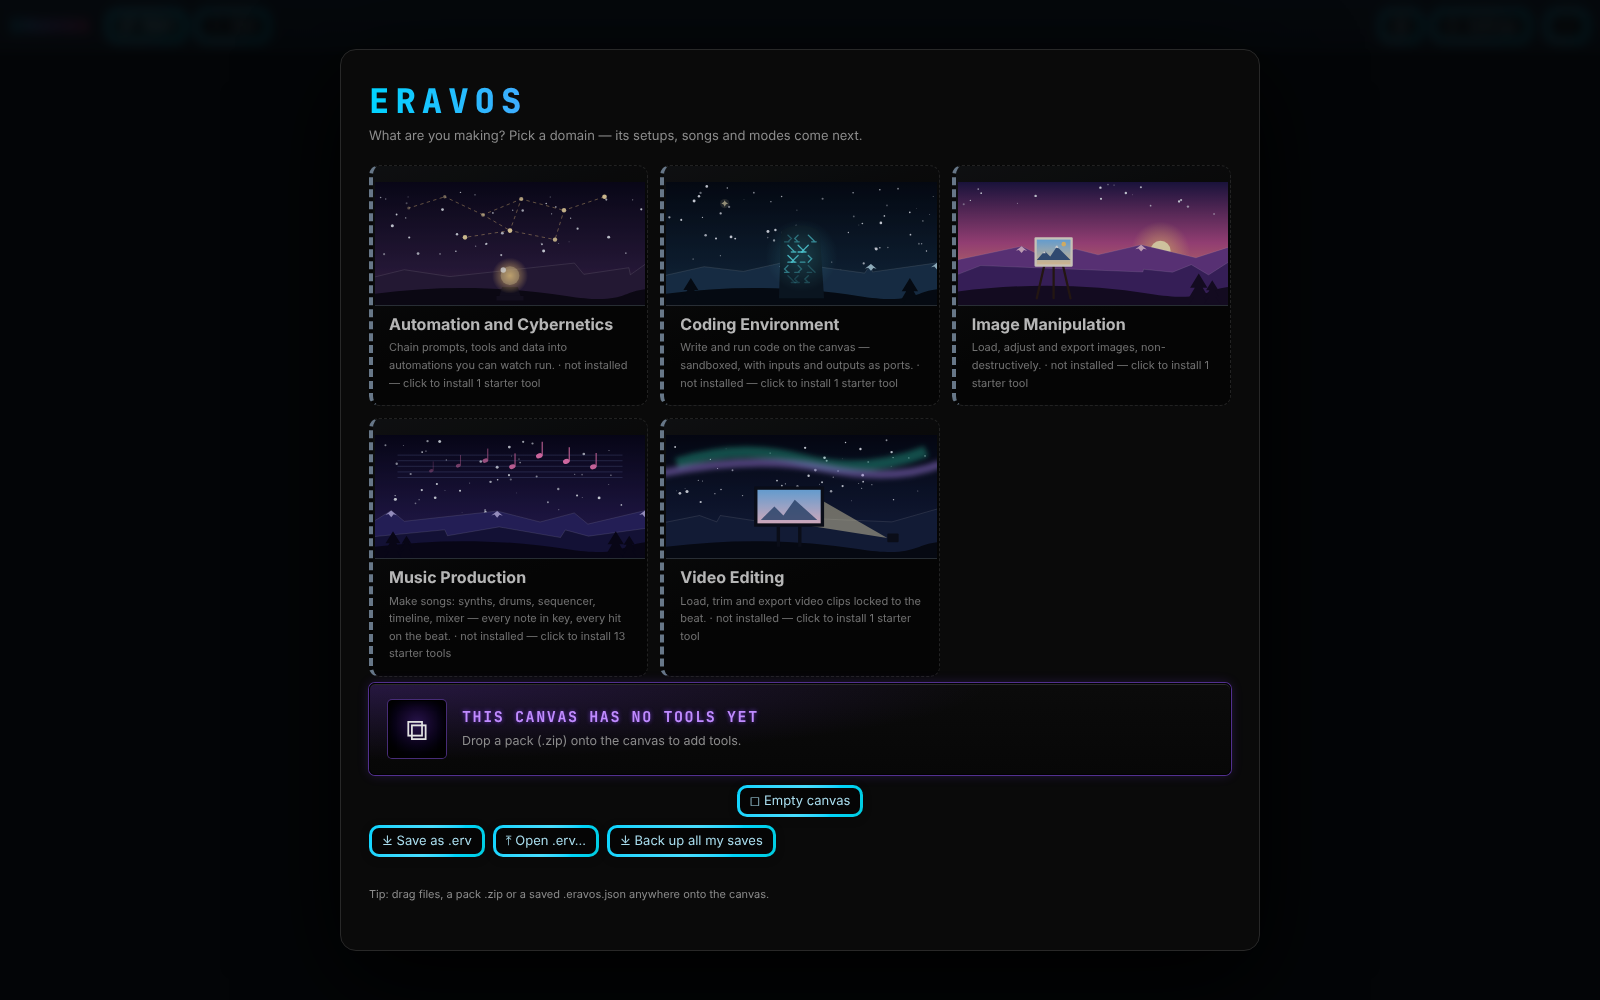
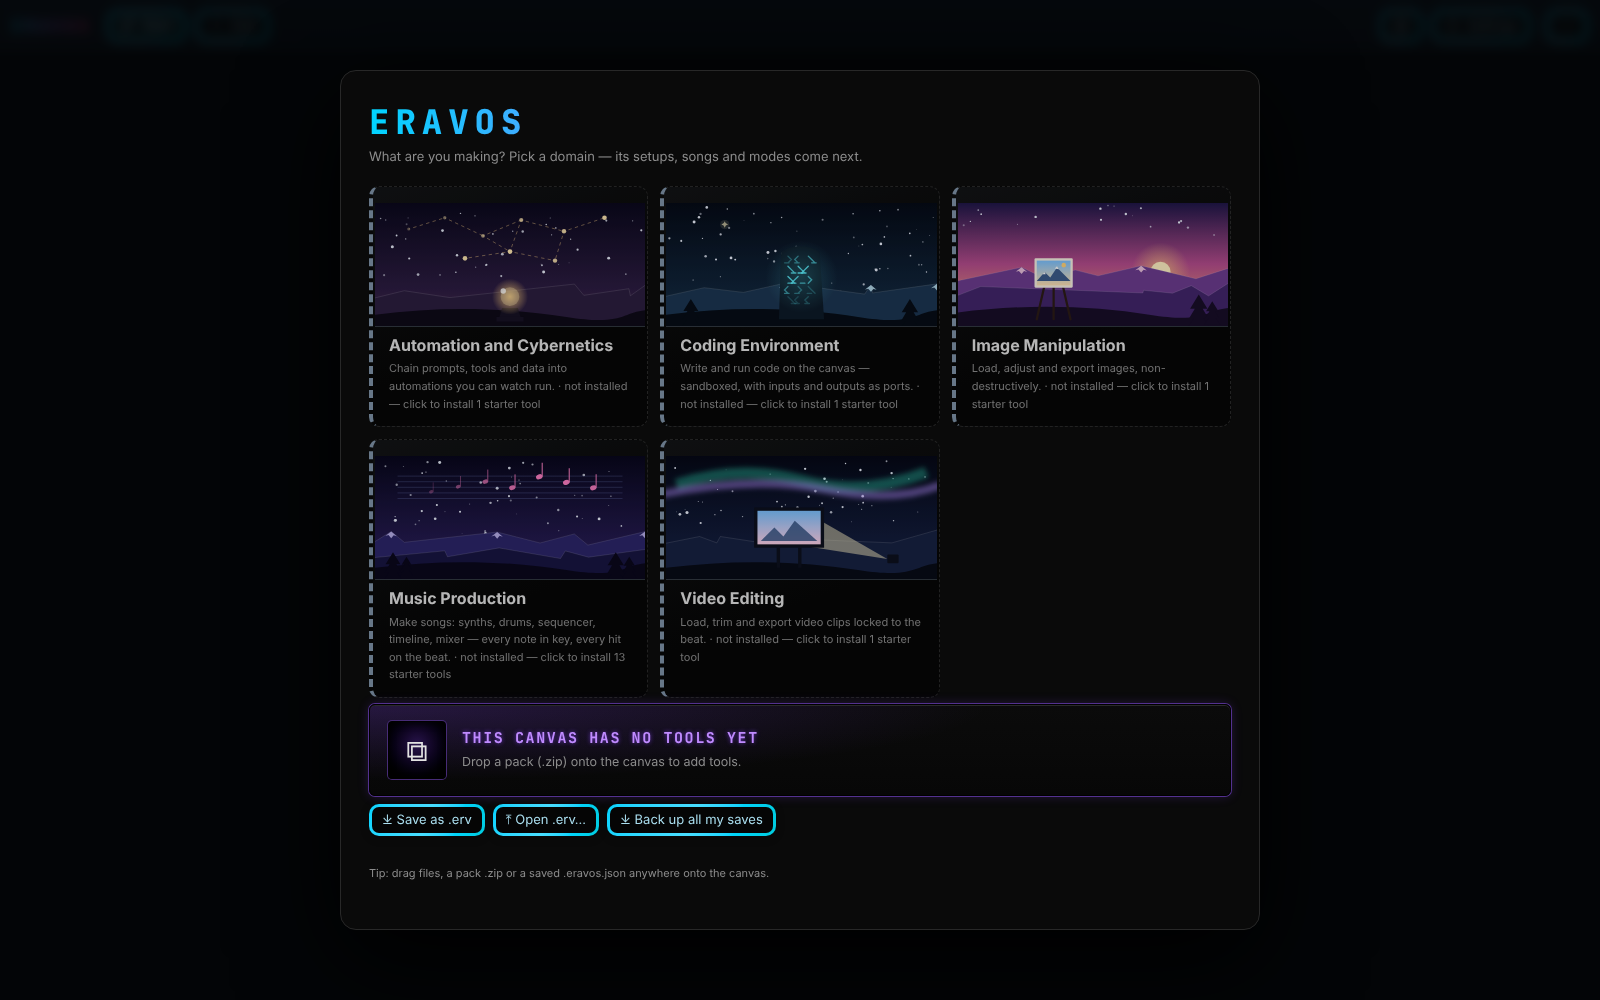
Start: each domain shows only its own setups; no Empty canvas button (3.225)
Claude-Session: https://claude.ai/code/session_01RhmGGeQo9BU3etbCG4u5m4

Changed region(s): [[0.2188, 0.155, 0.7812, 0.899], [0.2188, 0.062, 0.5312, 0.186]]

diff --git a/canvas/index.html b/canvas/index.html
@@ -155,6 +155,7 @@
     const start = async (id) => {
       S.activate(); close();
       // 3.124 Empty canvas = every tool starts blank (no preset); any other start brings tools with their presets
+      // (3.225: no "Empty canvas" button any more — his words, 2026-11-25: "also remove the button that says empty canvas"; Browse every tool starts this way)
       OrganismFactory.blankStart(!id);
       if (!id) toast('Empty canvas: every tool you add starts blank — no preset. Pick one from its presets any time.', '', 4000);
       if (id) {
@@ -165,7 +166,10 @@
     };
     // recipes belong to the modes their tools need; on an agnostic canvas none show until a mode is picked
     const activeDomains = new Set(X.active().map(id => (X.mode_(id) || {}).domain));
-    const visible = (r) => { const ms = X.recipeModes(r); return !ms.length || ms.some(m => X.isActive(m) || activeDomains.has((X.mode_(m) || {}).domain)); };
+    // 3.225 (his words, 2026-11-25: "these shouldn't show in other domains"): with a domain picked, only ITS setups and songs — not those of
+    // another domain that happens to be switched on; before a domain is picked, as before
+    const domainsOf = (r) => X.recipeModes(r).map(m => (X.mode_(m) || {}).domain || m);
+    const visible = (r) => { const ms = X.recipeModes(r); if (picked) return ms.length > 0 && domainsOf(r).includes(picked); return !ms.length || ms.some(m => X.isActive(m) || activeDomains.has((X.mode_(m) || {}).domain)); };
     const featured = Recipes.featured().filter(visible);
     // 3.81 a featured recipe may bring a picture (an SVG it ships as data); else its icon
     const heroPic = (r) => { if (typeof r.featured.art === 'string' && /^<svg[\s>]/.test(r.featured.art)) { const d = h('div', { class: 'big art' }); d.innerHTML = r.featured.art; return d; } return h('div', { class: 'big', text: r.featured.icon || r.icon || '✦' }); };
@@ -205,7 +209,6 @@
       ...(OrganismFactory.defined().length ? [] : [h('div', { class: 'hero-card', style: { cursor: 'default' } }, [h('div', { class: 'big', text: '⧉' }), h('div', {}, [h('h2', { text: 'This canvas has no tools yet' }), h('p', { text: window.ERAVOS_DESKTOP ? 'Drop a pack (.zip) onto the canvas, or put it in ERAVOS Library › Packs and it loads every start. 📁 Library opens the folder.' : 'Drop a pack (.zip) anywhere onto the canvas to add its tools.' })])])]),
       ...(setupCards.length || cards.length || X.active().length ? [h('div', { class: 'boot-sec', text: 'START FROM' })] : []),
       h('div', { class: 'grid' }, setupCards.concat(cards).concat([
-        h('div', { class: 'card has-art', onclick: () => start(null) }, [pic('runtime/art/blank-canvas.svg'), h('b', { text: 'Empty canvas' }), h('small', { text: 'Agnostic — add tools yourself (＋ Add)' })]),
         h('div', { class: 'card has-art', onclick: () => { start(null); setTimeout(() => AddMenu.show(S, X), 30); } }, [pic('runtime/art/chest.svg'), h('b', { text: 'Browse every tool' }), h('small', { text: 'See what each one needs before you add it' })]),
       ])),
       h('div', { class: 'row', id: 'autosaveRow' }),
@@ -215,7 +218,6 @@
       h('p', { class: 'sub', text: 'What are you making? Pick a domain — its setups, songs and modes come next.' }),
       ...(modeCards.length ? [h('div', { class: 'grid modes domains' }, modeCards)] : []),
       ...(OrganismFactory.defined().length ? [] : [h('div', { class: 'hero-card', style: { cursor: 'default' } }, [h('div', { class: 'big', text: '⧉' }), h('div', {}, [h('h2', { text: 'This canvas has no tools yet' }), h('p', { text: 'Drop a pack (.zip) onto the canvas to add tools.' })])])]),
-      h('div', { class: 'row', style: { justifyContent: 'center', marginTop: '10px' } }, [h('button', { class: 'tb-btn', title: 'agnostic — add tools yourself (＋ Add); every tool starts blank', onclick: () => start(null) }, ['◻ Empty canvas'])]),
       h('div', { class: 'row', id: 'autosaveRow' }),
       h('p', { class: 'sub', style: { marginTop: '14px', fontSize: '11px' }, text: brand.tip }),
     ]);

diff --git a/PROGRESS.md b/PROGRESS.md
@@ -2,6 +2,13 @@
 
 Where things stand, so work can be picked up in any session. Newest first.
 
+## 3.225 Start: each domain only its own; no Empty canvas button (2026-11-25)
+His words: "these shouldn't show in other domains. also remove the button that says empty canvas" (his screenshot: Image Manipulation picked, the music setups under START FROM).
+- canvas/index.html bootScreen (domain-free): with a domain picked, a setup / song shows only if its modes belong to that domain — Music
+  switched on no longer leaks into Image Manipulation; the Empty canvas button (step 1) and card (step 2) removed — Browse every tool starts
+  the same way. tests/p16-ui.mjs uses Browse; its two Start checks pass (its later plug.click failure is on main too). boundary 10/10.
+- docs/previews/start-two-steps.shots.mjs → start-3-image.png (Image Manipulation with Music on: only Browse every tool).
+
 ## 3.224 Mutation and synthesis reach five more tools; EN1 specced in full (2026-11-25) — not merged (shown first)
 His words: "i love the mutation and synthesis. can you expand to the rest of eravos?" · of EN1: "just spec it"
 - tools/music/data/part-exchange.js: Supersaw (filter), Swarm Oscillator (tone = its filter), Retro Poly (VCF, chorus, noise), Piano (drive —

diff --git a/docs/TODO-LEDGER.md b/docs/TODO-LEDGER.md
@@ -68,7 +68,7 @@ it moves to **Done**, and says where and the proof. His words in full, with what
 |---|---|---|---|
 | T-01 | **Borderless window** (0.2.36): no Windows title bar; drag by the toolbar; window buttons at its right. | "also borderless windows please?" (2026-11-24) | built, unconfirmed |
 | T-02 | **Updating in the app** (0.2.34): the updater runs from a copy; a held updater is kept. Confirm an in-app update goes through. | "trying to update it. fails to close eravos. also broke my current version." (2026-11-24) | built, unconfirmed |
-| T-03 | **Start in two steps** (0.2.36). | "like only show the domains at first." (2026-11-24) | built, unconfirmed |
+| T-03 | **Start in two steps** (0.2.36). | "like only show the domains at first." (2026-11-24) | CONFIRMED on his PC (2026-11-25 screenshot) — 3.225: a picked domain shows only its own setups; Empty canvas removed |
 | T-31 | **The new Start (StartScreen, SS2)** replacing today's Start: a preview since 2026-11-20. | "domain screen first, then animated transition into the next screen" (2026-11-20) | waiting (his yes) |
 
 ## Older open items (from CLAUDE.md › Open, carried here so this is the one list)

diff --git a/docs/HIS-WORDS-MAP.md b/docs/HIS-WORDS-MAP.md
@@ -277,3 +277,5 @@ kept), or **open** (not done yet, and what is missing). Newest at the bottom. Ad
 | N-X128 | "dynamic, load balancing, signal to noise? wait for emerge" (2026-11-24) | **decided** (Emerge) + **specced** | specs/eravos.engine.spec D2; DYNAMIC · LOAD BALANCING · SIGNAL TO NOISE; EN0–EN6 · T-33 … T-38 |
 | N-X129 | "i love the mutation and synthesis. can you expand to the rest of eravos?" (2026-11-25) | **built, shown first** (part) | 3.224: five more tools trade parts and synthesize (P218); ML1 continues |
 | N-X130 | "just spec it" (2026-11-25, of EN1) | **specced** | specs/eravos.engine.spec ADDENDUM 2026-11-25, EN1.1–EN1.6 · T-33 |
+| N-X131 | "yes merge." (2026-11-25) | **done** | PR #221; Start two steps confirmed on his PC |
+| N-X132 | "these shouldn't show in other domains. also remove the button that says empty canvas" (2026-11-25) | **done** | 3.225 canvas/index.html bootScreen |
